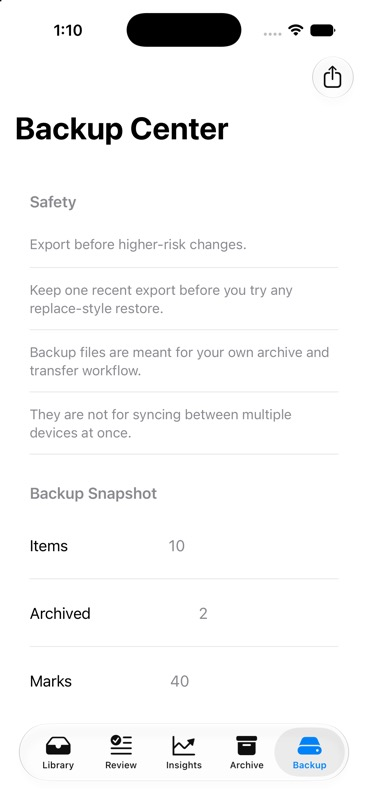
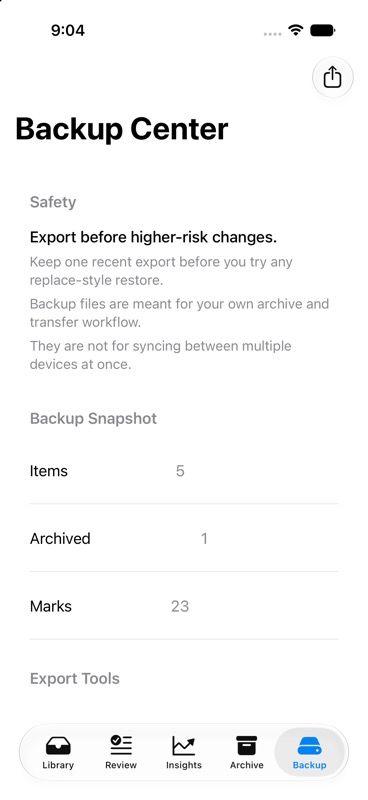
Refine Backup safety presentation

diff --git a/Stally/Sources/Features/Backup/BackupSafetySection.swift b/Stally/Sources/Features/Backup/BackupSafetySection.swift
@@ -9,19 +9,26 @@ import MHUI
 import SwiftUI
 
 struct BackupSafetySection: View {
+    private enum Layout {
+        static let messageSpacing: CGFloat = 8
+    }
+
     var body: some View {
         Section("Safety") {
-            Text("Export before higher-risk changes.")
-                .mhRowSupporting()
+            VStack(alignment: .leading, spacing: Layout.messageSpacing) {
+                Text("Export before higher-risk changes.")
+                    .mhRowTitle()
 
-            Text("Keep one recent export before you try any replace-style restore.")
-                .mhRowSupporting()
+                Text("Keep one recent export before you try any replace-style restore.")
+                    .mhRowSupporting()
 
-            Text("Backup files are meant for your own archive and transfer workflow.")
-                .mhRowSupporting()
+                Text("Backup files are meant for your own archive and transfer workflow.")
+                    .mhRowSupporting()
 
-            Text("They are not for syncing between multiple devices at once.")
-                .mhRowSupporting()
+                Text("They are not for syncing between multiple devices at once.")
+                    .mhRowSupporting()
+            }
+            .mhRow()
         }
     }
 }

diff --git a/docs/ui-preview-report.md b/docs/ui-preview-report.md
@@ -9,6 +9,24 @@ The pass intentionally improves the existing UI only. It does not add product
 features, change the SwiftData schema, add Operations, or change the
 StallyLibrary package boundary.
 
+## HIG And MHUI Style Policy
+
+Apple Human Interface Guidelines and platform-native iOS behavior are the
+foundation for Stally's app UI. Navigation, tab structure, lists, forms,
+sharing, sheets, dialogs, alerts, and standard controls should keep their
+native SwiftUI semantics unless a concrete product need justifies a custom
+treatment.
+
+MHUI and MHDesign are the shared app-family style layer on top of that
+foundation. In Stally, they should be used more actively than in Incomes where
+they improve spacing, hierarchy, typography rhythm, row rhythm, section
+treatment, metadata, badges, empty states, summary surfaces, action emphasis,
+destructive or safety treatment, feedback, and app-wide visual consistency.
+
+MHUI should not make Stally feel louder, more dashboard-like, or less familiar
+as an iPhone app. The desired result is a quiet Apple-native app that still
+visibly belongs to the MHUI family.
+
 ## Target Screens
 
 Reviewed as current Stally surfaces:
@@ -28,6 +46,53 @@ Not included as implemented screens:
 - Edit Item: no dedicated edit surface exists yet.
 - Photo-specific item UI: preview data includes placeholder photo data, but
   the current UI does not render item photos.
+
+## Audit Findings
+
+Current MHUI usage:
+
+- App root and previews apply `MHTheme.standard` and `MHGlassPolicy.automatic`.
+- Existing `List` and `Form` surfaces use Stally-local wrappers around
+  `mhListChrome`, `mhFormChrome`, and `MHKeyValueLabeledContentStyle`.
+- Rows, metadata, badges, empty states, action emphasis, destructive actions,
+  and section support text use MHUI treatment across Library, Archive, Review,
+  Insights, Backup Center, Settings, Add Item, and Item Detail.
+
+Common UI kept outside MHUI:
+
+- `NavigationStack`, `TabView`, `NavigationLink`, toolbar buttons, sheets,
+  alerts, file import/export, confirmation dialogs, and `ShareLink` remain
+  standard SwiftUI because they already carry the correct platform behavior.
+- Quiet History's dot grid remains a small app-specific data visualization.
+  MHUI provides text rhythm around it, but the marked/unmarked dot state is
+  product-specific.
+- Preview and screenshot launch routing stays DEBUG-only app support, not a
+  reusable style-system concern.
+
+Improvement made in this pass:
+
+- Backup Center Safety changed from four equal supporting rows into one quiet
+  MHUI row summary. This better matches the product principle that safety
+  belongs near risk, gives the most important instruction clearer hierarchy,
+  and avoids a heavier card or custom surface.
+
+Overuse risks intentionally avoided:
+
+- No `mhScreen`, `mhSection`, `mhSurface`, `mhGroupedRows`, `mhInputChrome`, or
+  custom theme was added. Those would replace natural native structure or add
+  card weight before Stally has a real screen-specific need.
+- Item Detail's `Mark Today` remains the single primary action for now because
+  it is the central workflow. Its full-width emphasis should be revisited only
+  after real usage confirms whether it feels too strong.
+
+Family assessment:
+
+- The app now reads closer to the MHUI family through shared chrome, typography
+  rhythm, row treatment, badges, empty states, action styles, and safety
+  treatment.
+- It still preserves Stally's quiet product tone because the pass avoids
+  decorative cards, charts, dense dashboards, and custom replacements for
+  familiar iOS controls.
 
 ## Preview Coverage
 
@@ -68,7 +133,7 @@ Preview states covered:
 - Review lanes with Needs First Mark, Dormant, and Recovery Candidates.
 - Empty Review.
 - Insights with active marks and category variety.
-- Backup snapshot and import validation issues.
+- Backup snapshot, safety summary, and import validation issues.
 - Add Item empty form validation state.
 - Dark mode for a dense Library state.
 - Large Dynamic Type for Item Detail.
@@ -125,6 +190,8 @@ Adopted:
 - `mhSectionHeader`, `mhSectionHeaderTitle`, `mhSectionHeaderSupporting`, and
   `mhSectionFooterText` where native section structure needed quieter support
   text.
+- A grouped Backup Center safety summary using `mhRow`, `mhRowTitle`, and
+  `mhRowSupporting` instead of four equal supporting rows.
 
 ## APIs Not Adopted
 
@@ -137,7 +204,8 @@ Not adopted:
   for these screens. Full MHUI section containers can be revisited if a future
   non-list screen needs grouped surfaces.
 - `mhSurface` and `mhSurfaceInset`: the goal was calmer native list/form
-  chrome, not card-heavy treatment.
+  chrome, not card-heavy treatment. Backup Safety gained a stronger summary
+  hierarchy inside a native row instead of becoming a separate card surface.
 - `mhGroupedRows`: native List rows already provide the right platform
   affordance. Grouped rows should wait until Stally has custom stack content
   that is not naturally a List.
@@ -198,7 +266,8 @@ Insights:
 
 Backup Center:
 
-- Applied list chrome, key-value rows, and semantic button styles.
+- Applied list chrome, key-value rows, semantic button styles, and a grouped
+  safety summary row.
 - Kept risky actions behind native confirmation dialogs.
 - Used destructive styling only for replace and delete actions.
 
@@ -232,7 +301,8 @@ Compared with `docs/ui-preview-screenshots/before/`:
   header.
 - Insights reads more like a collection summary than a dashboard because the
   pass avoided new chart or card treatments.
-- Backup Center safety copy is softer and action roles are clearer.
+- Backup Center safety copy is grouped into a clearer safety summary, and
+  action roles are clearer.
 - Add Item is still a simple form, but it now matches the visual rhythm of the
   other screens.
 - Empty states remain native, but their spacing and primary action style match
@@ -251,8 +321,8 @@ Confirmed through after screenshots:
 - Review renders all three attention lanes with MHUI section headers.
 - Insights renders scope controls and metric rows without heavier dashboard
   treatment.
-- Backup Center renders safety copy, snapshot counts, and export/import/reset
-  entry points.
+- Backup Center renders the grouped safety summary, snapshot counts, and
+  export/import/reset entry points.
 - Settings renders shareable destination links.
 - Add Item renders the empty form with disabled Add action.
 
@@ -278,8 +348,8 @@ Capture limits:
   row.
 - Add an editor-specific pass before adopting `mhInputChrome`; the current Add
   Item form is still intentionally simple.
-- Revisit `mhSection` only if Stally gains non-list summary surfaces that need
-  true grouped cards.
+- Revisit `mhSection` or `mhSurface` only if Stally gains non-list summary
+  surfaces that need true grouped cards.
 - Add empty-state runtime screenshots for Archive and Review if those surfaces
   become release-sensitive.
 - Consider owner-directed accent color and metrics tuning later; this pass